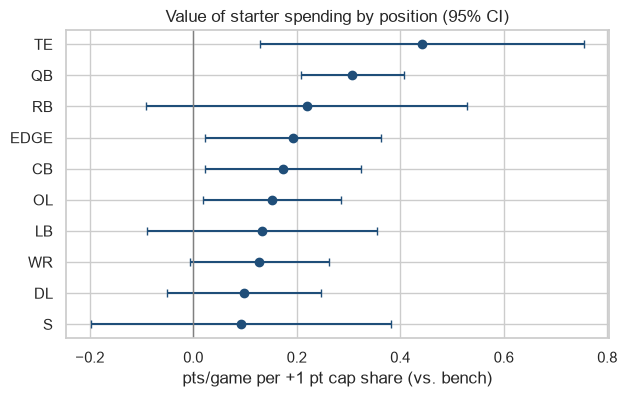
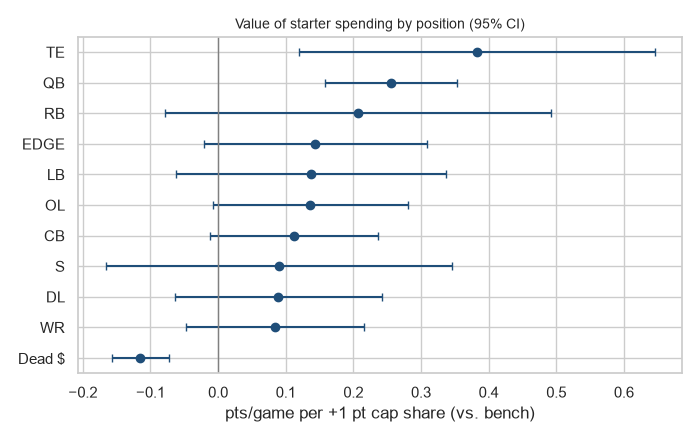
Update the write-up to match the dashboard: dead-money model, overall finish, new charts

diff --git a/WRITEUP.md b/WRITEUP.md
@@ -1,10 +1,12 @@
 # Which NFL positions are worth paying for?
 
-A team-level look at salary cap spending and results across 13 seasons (2013 to 2025). The interactive dashboard is at https://nfl-position-value.vercel.app.
+A team-level look at salary cap spending and results across 13 seasons (2013 to 2025). The interactive dashboard is at https://nfl-position-value.vercel.app. Every number below comes from the same models the dashboard shows.
 
 ## The short version
 
-Spending on the starting quarterback has the clearest payoff in this data, and it works through the passing game. Receivers, offensive linemen, edge rushers and cornerbacks also pay off, on the side of the ball where they play. Tight end looks valuable at first, but a simple check says that result is probably noise. Taken together, how a team splits its cap among positions explains only about a tenth of how it performs (about 16% once dead money is included). The strongest single marker in the data is not a position at all: teams carrying a lot of dead money and unspent cap do worse, though that is probably as much a result of a bad year as a cause of one.
+Spending on the starting quarterback has the clearest payoff in this data, and it works through the passing game. Receivers and offensive linemen help the offense, and edge rushers and cornerbacks help the defense, each on the side of the ball where they play. Tight end looks valuable at first, but a simple check says that result is probably noise. Taken together, how a team splits its cap explains about 16% of how it performs.
+
+The strongest single marker is not a position at all: teams carrying a lot of dead money and unspent cap do worse. That is probably as much a result of a bad year as a cause of one.
 
 ## The question
 
@@ -16,31 +18,40 @@ I combined public nflverse data into 416 team-seasons (32 teams, 2013 to 2025): 
 
 - **Cap share.** Each position group's cap hit as a share of the team's total, so a 2013 season can be compared with a 2025 one. One point of share is about $1.6M for an average team.
 - **Starters and bench.** Money on a starting left tackle and money on a backup are different decisions. I counted the top players at each position by snaps as starters (QB1, RB1, three WR, TE1, five OL, and so on, filling a standard 11-man lineup) and everyone else as bench.
-- **Results.** Point differential per game, plus offensive and defensive EPA per play, which separates the two sides of the ball.
+- **Results.** Four outcomes: point differential per game, offensive EPA per play, defensive EPA per play (which separate the two sides of the ball), and overall finish in the final standings, rebuilt from the league's draft order so that it includes the playoffs.
 - **Dead money and unspent cap.** The contract data has no dead cap, because a released player's leftover bonus is not in his season history. I recovered it as the league's base cap minus every tracked cap hit. It is mostly dead money but also includes cap a team left unused, and I cannot separate the two.
-- **One model for all positions.** A single regression with every position at once, season fixed effects, and standard errors clustered by team. Each coefficient answers one question: what happens if one point of cap moves from bench depth into this position's starters?
+- **One model for all positions.** A single regression with every position and dead money at once, season fixed effects, and standard errors clustered by team. Each coefficient answers one question: what happens if one point of cap moves from bench depth into this position's starters?
 
 ## What I found
 
-The position results below come from the model with the ten positions only. The last section before the caveats adds dead money, which shrinks several of them. The dashboard shows the version with dead money included.
 
 ### Quarterback is the clearest payoff
 
 ![Estimated effect of starter spending by position](writeup/img/01_position_effects.png)
 
-Moving one point of cap share into the starting QB is associated with about +0.31 points per game (95% interval +0.21 to +0.41). In EPA terms the effect is almost entirely passing (+0.57 per 100 plays on pass offense, against +0.02 on the run game) and nothing on defense.
+Moving one point of cap share into the starting QB is associated with about +0.26 points per game (95% interval +0.16 to +0.35). In EPA terms the effect is mostly passing (+0.71 per 100 plays on pass offense, against +0.12 on the run game) and nothing on defense.
 
-I worried about two things. Cheap rookie-contract QBs are a big group (44% of team-seasons), and if they happened to be worse, QB spending would only be standing in for age. Adding a rookie-contract control moved the QB coefficient from 0.234 to 0.240. I also reran the result under six different definitions of "starter", and the QB effect held under all six.
+I worried about two things. Cheap rookie-contract QBs are a big group (44% of team-seasons), and if they happened to be worse, QB spending would only be standing in for age. Adding a rookie-contract control moved the QB coefficient from 0.255 to 0.248. I also reran the result under six different definitions of "starter", and the QB effect held under all six.
 
 ### Spending lines up with where the work happens
 
 ![Offense and defense effects](writeup/img/02_offense_vs_defense.png)
 
-Splitting results into offense and defense, spending on offensive starters shows up in offensive EPA and spending on defensive starters shows up in defensive EPA. Receivers (+0.29) and offensive linemen (+0.34) help the offense, with the line's effect coming through the run game. Edge rushers (+0.24) and cornerbacks (+0.34) help the defense through pass defense, and interior linemen (+0.18) help against the run. Safeties and linebackers show no clear effect. All figures are EPA per 100 plays for one point of cap share.
+Splitting results into offense and defense, spending on offensive starters shows up in offensive EPA and spending on defensive starters shows up in defensive EPA. Receivers (+0.25, through the passing game) and offensive linemen (+0.32, through both passing and running) help the offense. Edge rushers (+0.20) and cornerbacks (+0.29) help the defense through pass defense, and interior linemen point the same way against the run (+0.17, just short of significant). Safeties and linebackers show no clear effect. All figures are EPA per 100 plays for one point of cap share.
+
+On point differential alone, the line, edge and corner results are weaker (their intervals just touch zero). Splitting by side of the ball is what shows them, which is why I put weight on the pattern and not on any one number.
 
 ### The tight end result that was not real
 
-Tight end had the largest estimate in the first model, and it was stable across starter definitions. Then I ran a placebo check. Spending on offensive positions should not move the defense, and spending on defensive positions should not move the offense. Every position passed except one. Tight end spending "improved" the defense (+0.42, p = 0.007) about as much as it improved the offense. A tight end cannot cause that. I treat the original result as noise, or as a stand-in for something I did not measure. Stability across definitions did not save it, because the same quirk was present in every version.
+Tight end had the largest estimate in the first model, and it was stable across starter definitions. Then I ran a placebo check. Spending on offensive positions should not move the defense, and spending on defensive positions should not move the offense. Every position passed except one. Tight end spending "improved" the defense (+0.37, p = 0.020) about as much as it improved the offense. A tight end cannot cause that. I treat the original result as noise, or as a stand-in for something I did not measure. Stability across definitions did not save it, because the same quirk was present in every version.
+
+### Overall finish tells the same story
+
+![Overall finish effects](writeup/img/04_overall_finish.png)
+
+Point differential ignores the playoffs, so I added a fourth outcome: where a team ended the season among the 32 teams. The league's own first-round draft order encodes this (champion last, then the other playoff teams by the round they lost, then everyone else by record), so I rebuilt each team's original pre-trade slot from the standings and flipped it so 1 is the champion. I checked the rebuilt slots against the real drafts and the trades table: 93% (388 of 416) could be verified, and the rest are mostly exact ties or recent trades missing from the data.
+
+Results are shown as places gained per point of cap share. QB again leads (+0.37 places, interval +0.21 to +0.53), with offensive line (+0.25) and edge rusher (+0.25, borderline) behind it. Tight end is again the largest estimate (+0.63) and again the one that fails the placebo check, and dead money again goes with fewer places.
 
 ### QB spending tapers off
 
@@ -58,11 +69,15 @@ Losing the starting QB for eight weeks costs about five points per game. I teste
 
 ### Dead money and unspent cap: the strongest marker, and probably not a cause
 
-Adding the dead-money row to the model, each extra point of cap share in it goes with about 0.12 fewer points per game, 0.11 less offensive EPA, 0.10 less defensive EPA and 0.17 fewer places in the final standings. All four are significant under all six starter definitions. It hurts offense and defense about equally, so it behaves like a team-wide signal, not a position effect. The model's explanatory power for point differential rises from about 10% to 16%.
+Each extra point of cap share in dead money and unspent cap goes with about 0.12 fewer points per game, 0.11 less offensive EPA, 0.10 less defensive EPA and 0.17 fewer places in the final standings. All four are significant under all six starter definitions. It hurts offense and defense about equally, so it behaves like a team-wide signal, not a position effect. Including it lifts the model's explanatory power for point differential from about 10% to 16%.
 
-It also changes the position results. Part of what looked like a position effect was this: QB falls from +0.31 to +0.26 points per game (still clearly positive, interval +0.16 to +0.35), and WR, OL, EDGE and CB drop below the 5% line on point differential. Their side-specific results (WR and OL on offensive EPA, EDGE and CB on defensive EPA) hold up, and tight end still fails the placebo check.
+It also changes the position results. Part of what looked like a position effect was this: without it QB was +0.31 points per game and with it +0.26 (still clearly positive), and WR, OL, EDGE and CB drop below the 5% line on point differential. Their side-specific results hold up, and tight end still fails the placebo check. I kept dead money in the model throughout because leaving it out lets the positions pick up part of its effect.
 
 I would not read this as dead money costing wins. Last season's dead money does not predict this season's results, only the same season's does. That fits teams that fall out of contention cutting players and leaving cap unspent, as much as it fits a poorly built roster. It is a good marker of a struggling team, and I cannot tell whether it is a cause.
+
+## The dashboard
+
+The page lets you test these claims yourself. The effects chart shows every estimate with its interval, and a toggle switches among the four outcomes. The position explorer plots any position's spending against any outcome, with a team highlight and a season range. The team explorer shows one team's results by season (also switchable among the four outcomes) above a grid of where its money sat against the league average that year. Dead money and unspent cap appears as an extra row in each. There is a light and a dark theme, and on a phone the team explorer opens on the last eight seasons so the grid stays readable.
 
 ## What I would be careful about
 
@@ -75,6 +90,7 @@ I would not read this as dead money costing wins. Last season's dead money does 
 ## How I checked myself
 
 - Reran the key findings under six definitions of "starter".
+- Rebuilt each team's pre-trade draft slot from the standings and checked it against the real drafts and trades (93% verified) before using it as an outcome.
 - Split the sample at 2019 to see whether a point of cap share means the same thing as the cap grew. The position effects held (QB +0.28 and +0.26 points per game in the two halves); only dead money weakened.
 - Checked that last season's dead money does not predict this season, which kept me from reading it as a cause.
 - Controlled for rookie-scale contracts.
@@ -85,6 +101,6 @@ I would not read this as dead money costing wins. Last season's dead money does 
 
 ## Built with
 
-Python (pandas, statsmodels) in a Jupyter notebook. The dashboard is a single HTML file with hand-built SVG charts, generated from the same models and deployed on Vercel.
+Python (pandas, statsmodels) in a Jupyter notebook. The dashboard is a single HTML file with hand-built SVG charts, generated from the same models and deployed on Vercel. The type is Barlow Condensed and IBM Plex.
 
 *Code and notebook: [link to add when the repository is public].*
